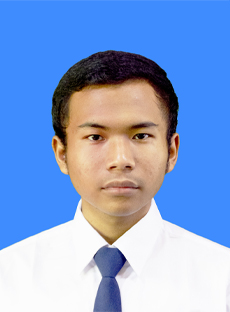
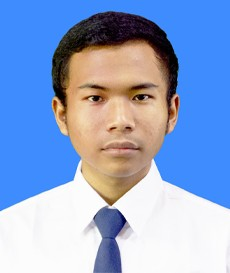
feat: team pages

Changed region(s): [[0.0, 0.0293, 1.0, 0.967]]

diff --git a/frontend-test/src/features/team/team.jsx b/frontend-test/src/features/team/team.jsx
@@ -1,0 +1,153 @@
+import { useNavigate } from "react-router-dom";
+
+import team1 from "../../assets/member/team1.jpg";
+import team2 from "../../assets/member/team2.jpg";
+import team3 from "../../assets/member/team3.jpg";
+import team4 from "../../assets/member/team4.jpg";
+import team5 from "../../assets/member/team5.jpg";
+
+function Team() {
+  const navigate = useNavigate();
+
+  const members = [
+    {
+      name: "Phumthai Hassadeepong",
+      role: "ERD",
+      email: "Phumthai.has@student.mahidol.ac.th",
+      instagram: "zawile_n",
+      image: team1,
+      bgColor: "#d7e8f3",
+    },
+    {
+      name: "Thanadon Seesoda",
+      role: "Data Dictionary",
+      email: "thanadon.see@student.mahidol.ac.th",
+      instagram: "thehome_ew",
+      image: team2,
+      bgColor: "#fff0c7",
+    },
+    {
+      name: "Pimnicha Aemcharoen",
+      role: "UX / UI",
+      email: "pimnicha.aem@student.mahidol.ac.th",
+      instagram: "petaleiva",
+      image: team3,
+      bgColor: "#f3ded1",
+    },
+    {
+      name: "Kason Woonbumroong",
+      role: "Reporting",
+      email: "kason.woo@student.mahidol.ac.th",
+      instagram: "kasnkub",
+      image: team4,
+      bgColor: "#dedaf4",
+    },
+    {
+      name: "Panjira Yamroj",
+      role: "Reporting",
+      email: "panjira.yam@student.mahidol.ac.th",
+      instagram: "conf_usedso",
+      image: team5,
+      bgColor: "#dedaf4",
+    },
+  ];
+
+  return (
+    <>
+      <style>
+        {`
+          @import url('https://fonts.googleapis.com/css2?family=Kanit:wght@300;400;500;600;700&display=swap');
+          * { font-family: 'Kanit', sans-serif; }
+        `}
+      </style>
+
+      <div className="min-h-screen bg-[#f7f4ed] pb-20">
+
+        {/* Header Banner - เปลี่ยนสีพื้นหลังหลังคำว่า OUR TEAM เป็น #fff5d9 */}
+        <header className="relative w-full py-6 bg-[#fff5d9] flex justify-center items-center mb-10 shadow-sm">
+          <button
+            className="absolute left-8 w-10 h-10 rounded-2xl bg-white/80 hover:bg-white text-gray-500 flex items-center justify-center text-xl shadow-sm transition cursor-pointer"
+            onClick={() => navigate("/home")}
+          >
+            ↶
+          </button>
+          <h1 className="text-4xl md:text-5xl font-bold tracking-widest text-[#5c4a47]">
+            OUR TEAM
+          </h1>
+        </header>
+
+        {/* Content Container */}
+        <main className="max-w-5xl mx-auto px-4 flex flex-col items-center gap-8">
+          {/* Row 1: 3 Cards */}
+          <div className="grid grid-cols-1 sm:grid-cols-2 md:grid-cols-3 gap-6 w-full">
+            {members.slice(0, 3).map((member, index) => (
+              <MemberCard key={index} member={member} />
+            ))}
+          </div>
+
+          {/* Row 2: 2 Cards Centered */}
+          <div className="grid grid-cols-1 sm:grid-cols-2 gap-6 w-full max-w-2xl">
+            {members.slice(3, 5).map((member, index) => (
+              <MemberCard key={index + 3} member={member} />
+            ))}
+          </div>
+        </main>
+      </div>
+    </>
+  );
+}
+
+function MemberCard({ member }) {
+  return (
+    <div className="bg-white rounded-3xl overflow-hidden shadow-md hover:shadow-xl transition-all duration-300 flex flex-col">
+      {/* Profile Image */}
+      <div className="w-full max-h-[300px] overflow-hidden">
+        <img
+          src={member.image}
+          alt={member.name}
+          className="w-full h-full object-cover object-top"
+        />
+      </div>
+
+      {/* Card Content Section */}
+      <div
+        className="p-6 flex-1 flex flex-col justify-between"
+        style={{ backgroundColor: member.bgColor }}
+      >
+        <div>
+          <h2 className="text-2xl font-bold text-[#5c4a47] mb-1">
+            {member.role}
+          </h2>
+          <p className="text-sm text-[#7a6b68] font-medium mb-4">
+            {member.name}
+          </p>
+
+          <div className="text-xs text-[#6b5c59] space-y-1 leading-relaxed">
+            <p>
+              <span className="font-bold">Name:</span> {member.name}
+            </p>
+            <p>
+              <span className="font-bold">Role:</span> {member.role}
+            </p>
+            <p className="break-all">
+              <span className="font-bold">Email:</span> {member.email}
+            </p>
+            <p>
+              <span className="font-bold">Tel:</span> -
+            </p>
+          </div>
+        </div>
+
+        {/* Instagram Footer */}
+        <div className="flex items-center gap-2 mt-5 text-[#5c4a47] text-xs font-semibold">
+          <svg className="w-4 h-4 fill-current" viewBox="0 0 24 24">
+            <path d="M12 2.163c3.204 0 3.584.012 4.85.07 3.252.148 4.771 1.691 4.919 4.919.058 1.265.069 1.645.069 4.849 0 3.205-.012 3.584-.069 4.849-.149 3.225-1.664 4.771-4.919 4.919-1.266.058-1.644.07-4.85.07-3.204 0-3.584-.012-4.849-.07-3.26-.149-4.771-1.699-4.919-4.92-.058-1.265-.07-1.644-.07-4.849 0-3.204.013-3.583.07-4.849.149-3.227 1.664-4.771 4.919-4.919 1.266-.057 1.645-.069 4.849-.069zm0-2.163c-3.259 0-3.667.014-4.947.072-4.358.2-6.78 2.618-6.98 6.98-.059 1.281-.073 1.689-.073 4.948 0 3.259.014 3.668.072 4.948.2 4.358 2.618 6.78 6.98 6.98 1.281.058 1.689.072 4.948.072 3.259 0 3.668-.014 4.948-.072 4.354-.2 6.782-2.618 6.979-6.98.059-1.28.073-1.689.073-4.948 0-3.259-.014-3.667-.072-4.947-.196-4.354-2.617-6.78-6.979-6.98-1.281-.059-1.69-.073-4.949-.073zm0 5.838c-3.403 0-6.162 2.759-6.162 6.162s2.759 6.163 6.162 6.163 6.162-2.759 6.162-6.163c0-3.403-2.759-6.162-6.162-6.162zm0 10.162c-2.209 0-4-1.79-4-4 0-2.209 1.791-4 4-4s4 1.791 4 4c0 2.21-1.791 4-4 4zm6.406-11.845c-.796 0-1.441.645-1.441 1.44s.645 1.44 1.441 1.44c.795 0 1.439-.645 1.439-1.44s-.644-1.44-1.439-1.44z" />
+          </svg>
+          <span className="truncate">{member.instagram}</span>
+        </div>
+      </div>
+    </div>
+  );
+}
+
+export default Team;

diff --git a/frontend-test/src/app/App.jsx b/frontend-test/src/app/App.jsx
@@ -1,5 +1,6 @@
 import { Route, Routes } from "react-router-dom"
 import { IconSprite } from "../shared/components/IconSprite"
+
 // import AdminManagement from "../features/adminManagement/AdminManagement"
 import AdminCreate from "../features/adminManagement/AdminCreate"
 import AdminChange from "../features/adminManagement/AdminChange"
@@ -8,6 +9,7 @@ import HeaderShop from "../shared/components/header_shop";
 import NavbarShop from "../shared/components//navbar_shop";
 import Search from "../features/product-catalog/Search";
 import Detail from "../features/product-catalog/Detail";
+import Team from "../features/team/team";
 import {
   BookManagement,
   BookCreate,
@@ -20,6 +22,7 @@ function App() {
     <>
       <IconSprite/>
       <Routes>
+        <Route path="/team"element={<><HeaderShop /><Team /></>}/>
         <Route path="/search/:keyword?"element={<><HeaderShop /><NavbarShop /><Search /></>}/>
         <Route path="/detail/:id" element={<><HeaderShop /><NavbarShop /><Detail /></>}/>
         <Route path="/home" element={<Home />} />
